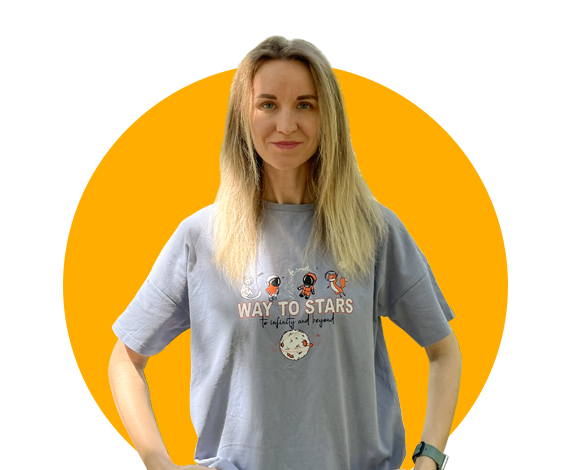
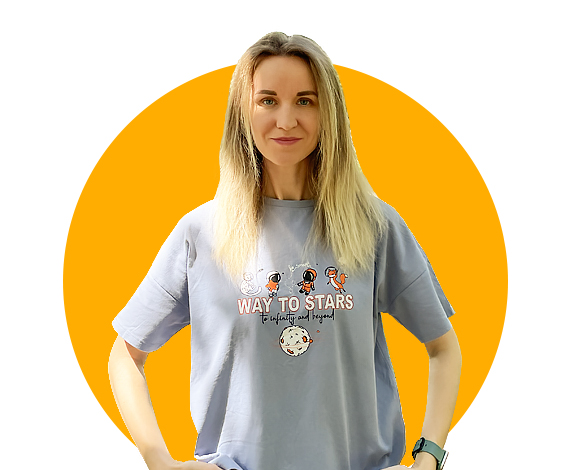
Changed image, footer

diff --git a/index.html b/index.html
@@ -101,7 +101,7 @@
           </div>
           <div class="col-md-6">
             <img
-              src="img/me.jpg"
+              src="img/me_3.jpg"
               alt="Photo by Anna Zubenko"
               width="100%"
               class="img-first-screen"
@@ -145,7 +145,7 @@
             <h2>What My Design Skills Included</h2>
             <div class="row">
               <div class="col-10"><h4>Adobe Photoshop</h4></div>
-              <div class="col-2"><p>85%</p></div>
+              <div class="col-2"><p class="mt-2">85%</p></div>
             </div>
             <div class="progress">
               <div
@@ -160,7 +160,7 @@
 
             <div class="row">
               <div class="col-10"><h4>Adobe Illustrator</h4></div>
-              <div class="col-2"><p>70%</p></div>
+              <div class="col-2"><p class="mt-2">70%</p></div>
             </div>
             <div class="progress">
               <div
@@ -175,7 +175,7 @@
 
             <div class="row">
               <div class="col-10"><h4>Figma</h4></div>
-              <div class="col-2"><p>90%</p></div>
+              <div class="col-2"><p class="mt-2">90%</p></div>
             </div>
             <div class="progress">
               <div
@@ -366,23 +366,17 @@
           </div>
         </div>
         <div class="footer-icon">
-          <div class="menu-icon">
-            <a
-              href="index.html#firstScreen"
-              class="footer-logo"
-              title="Homepage"
-              >AZ</a
-            >
-            <span class="footer-logo-icon">
-              <a href="index.html#aboutMe" title="About Anna Zubenko"
-                >About Me</a
-              >
-              <a href="index.html#myWorks" title="Portfolio">My Works</a>
-              <a href="index.html#mySkills" title="Work Skills">My Skills</a>
-            </span>
-          </div>
           <p class="footer-icon-autor">
             © 2022 Desighing and coding by Anna Zubenko. All rights reserved
+          </p>
+          <p class="footer-icon-autor contacts">
+            <a
+              href="https://github.com/ZubenkoAnna/portfolio_AZ_UX_UI"
+              title="Code on GitHub"
+              target="_blank"
+              >Open-source code</a
+            >
+            , by Anna Zubenko
           </p>
         </div>
       </div>

diff --git a/portfolio.html b/portfolio.html
@@ -214,9 +214,7 @@
             <div class="col-lg-6">
               <h2>Weather app</h2>
               <div class="paragraf">
-                <p>
-                  During my work, I have create design of app and built with:
-                </p>
+                <p>I was create design of app and built it with:</p>
                 <ul>
                   <li>HTML,</li>
                   <li>CSS,</li>

diff --git a/src/style.css b/src/style.css
@@ -251,7 +251,7 @@ a {
   height: 65px;
   border-radius: 50%;
   background: var(--color-primery);
-  margin-right: 16px;
+  margin: 0 8px;
 }
 
 .footer .socia-icons {
